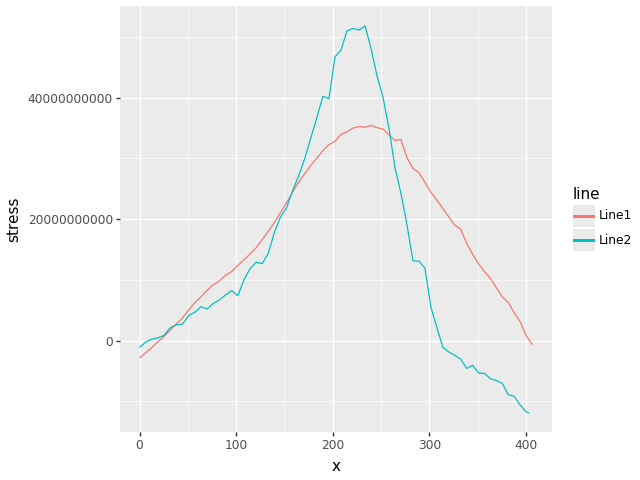
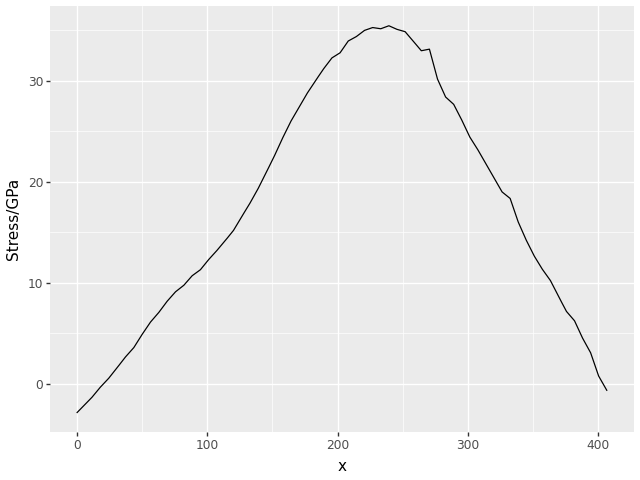
add stress points

diff --git a/src/stress_points.py b/src/stress_points.py
@@ -1,0 +1,40 @@
+"""Stress points
+Author: A.W.J Remstedt
+
+This script contains the code for finding the stresses and mohr
+circles for the different points in the specimen.
+"""
+
+import numpy as np
+
+strains = {
+    1: np.array([0.0780638, -0.000109094, 0.167676]) / 1000,
+    2: np.array([-0.0320553, -0.0506244, 0.0858915]) / 1000,
+    3: np.array([0.0477689, 0.0937671, 0.195837]) / 1000,
+}
+
+E = 210e9  # Pa
+v = 0.3
+
+factor: float = E / (1 + v) / (1 - 2 * v)
+matrix = np.array(
+    [
+        [1 - v, v, 0],
+        [v, 1 - v, 0],
+        [0, 0, (1 - 2 * v) / 2],
+    ]
+)
+
+
+def print_matrix_form(matrix: np.ndarray) -> None:
+    """Print the matrix in a nice format."""
+    print(f"""
+{matrix[0]:.2f} & {matrix[1]:.2f} \\\\
+{matrix[1]:.2f} & {matrix[2]:.2f} 
+          """)
+
+
+for i, strain in strains.items():
+    print(strain)
+    stress = factor * matrix @ strain / 1e6
+    print_matrix_form(stress)

diff --git a/src/plotters.py b/src/plotters.py
@@ -1,14 +1,17 @@
 import pandas as pd
-from plotnine import ggplot, aes, geom_line, ggsave
+import numpy as np
+from plotnine import ggplot, aes, geom_line, ggsave, geom_hline
 
 
 def plot_strain(df: pd.DataFrame):
     """Create a plot of the strain data using ggplot."""
-    p = ggplot(df, aes(x="x", y="strain", color="line")) + geom_line()
+    p = ggplot(df, aes(x="x", y="Strain/%", color="line")) + geom_line()
     ggsave(p, "strain.png")
 
 
 def plot_stress(df: pd.DataFrame):
     """Create a plot of the stress data using ggplot."""
-    p = ggplot(df, aes(x="x", y="stress", color="line")) + geom_line()
+    avg = np.mean(df["Stress/GPa"])
+    max = np.max(df["Stress/GPa"])
+    p = ggplot(df, aes(x="x", y="Stress/GPa")) + geom_line()
     ggsave(p, "stress.png")

diff --git a/main.py b/main.py
@@ -16,18 +16,24 @@ from plotters import plot_stress
 from src.strain import read_strain_data
 from src.stress import add_stress
 import pandas as pd
+import numpy as np
 
 
 def main() -> None:
     df = pd.concat(
         [
             read_strain_data(strain_line_number=1),
-            read_strain_data(strain_line_number=2),
         ],
         ignore_index=True,
     )
     add_stress(df)
     plot_stress(df)
+    avg = np.mean(df["Stress/GPa"])
+    max = np.max(df["Stress/GPa"])
+    b_eff = 250 * avg / max
+    print(f"{avg=:.2f}")
+    print(f"{max=:.2f}")
+    print(f"{b_eff=:.2f}")
 
 
 if __name__ == "__main__":

diff --git a/src/strain.py b/src/strain.py
@@ -32,8 +32,9 @@ def read_strain_data(*, strain_line_number: int) -> pd.DataFrame:
         sep="\t",
         skiprows=3,
         header=None,
-        names=["x", "strain", "uncertainty"],
+        names=["x", "Strain/%", "uncertainty"],
     )
+    df["Strain/%"] = df["Strain/%"] / 1000
     df["line"] = f"Line{strain_line_number}"
     return df
 

diff --git a/src/stress.py b/src/stress.py
@@ -5,4 +5,4 @@ YOUNGS_MODULUS = 210e9  # Pa
 
 def add_stress(strain_df: pd.DataFrame) -> None:
     """Add a column to the strain DataFrame with the stress data."""
-    strain_df["stress"] = strain_df["strain"] * YOUNGS_MODULUS
+    strain_df["Stress/GPa"] = strain_df["Strain/%"] * YOUNGS_MODULUS / 1e6
